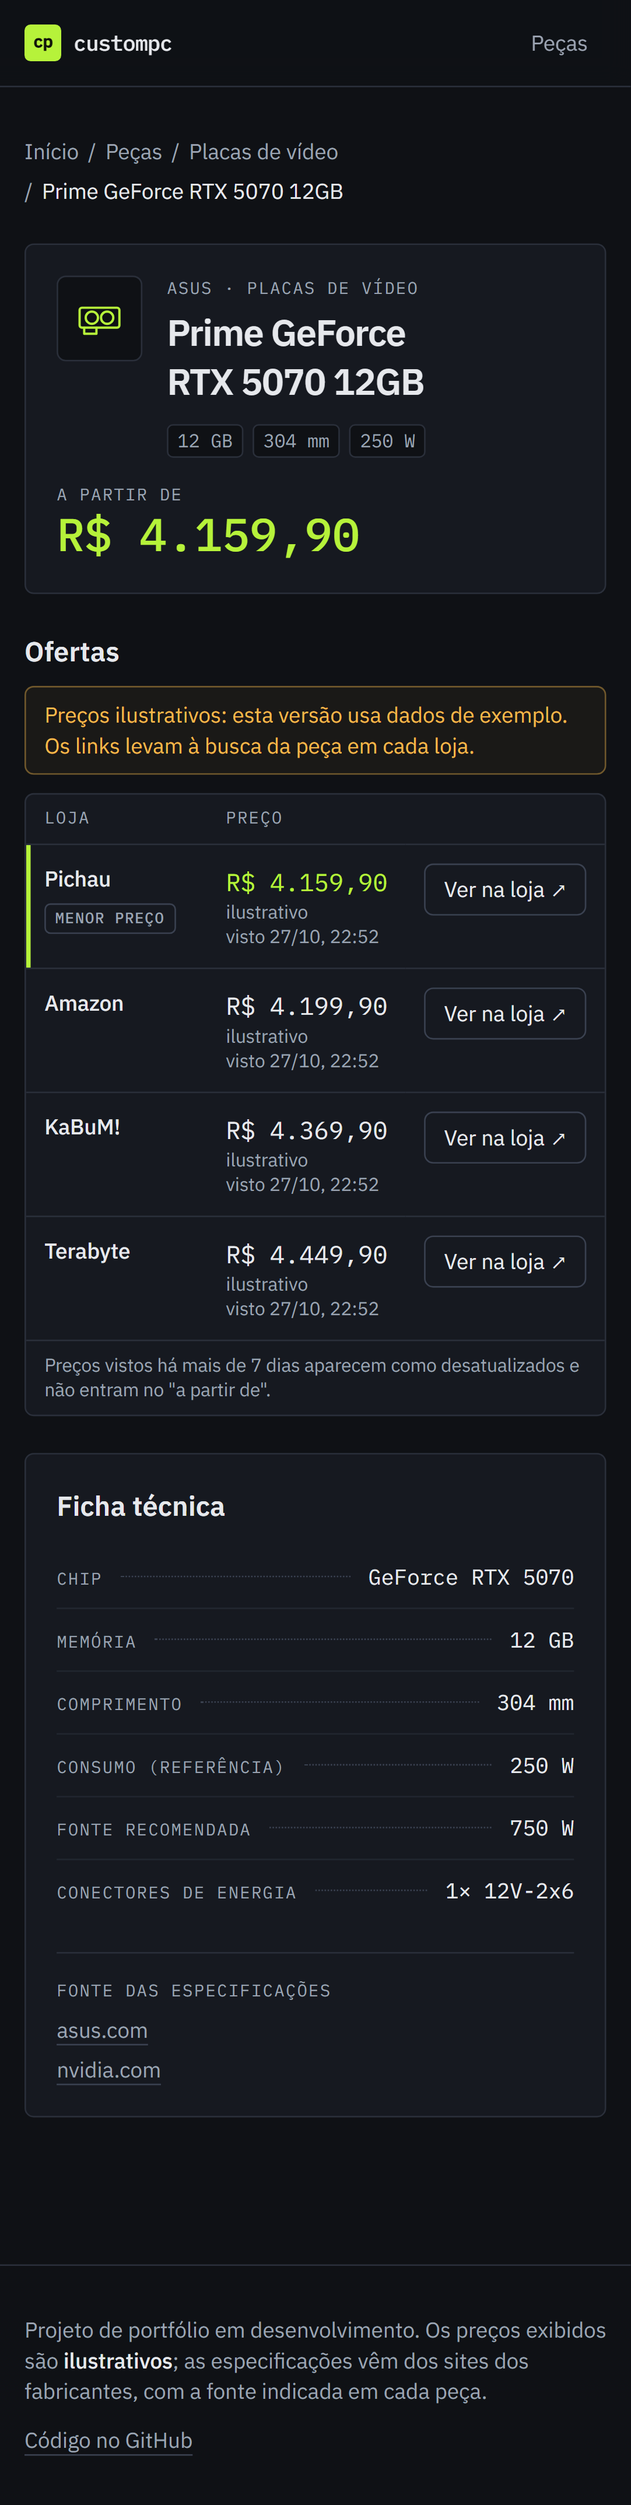
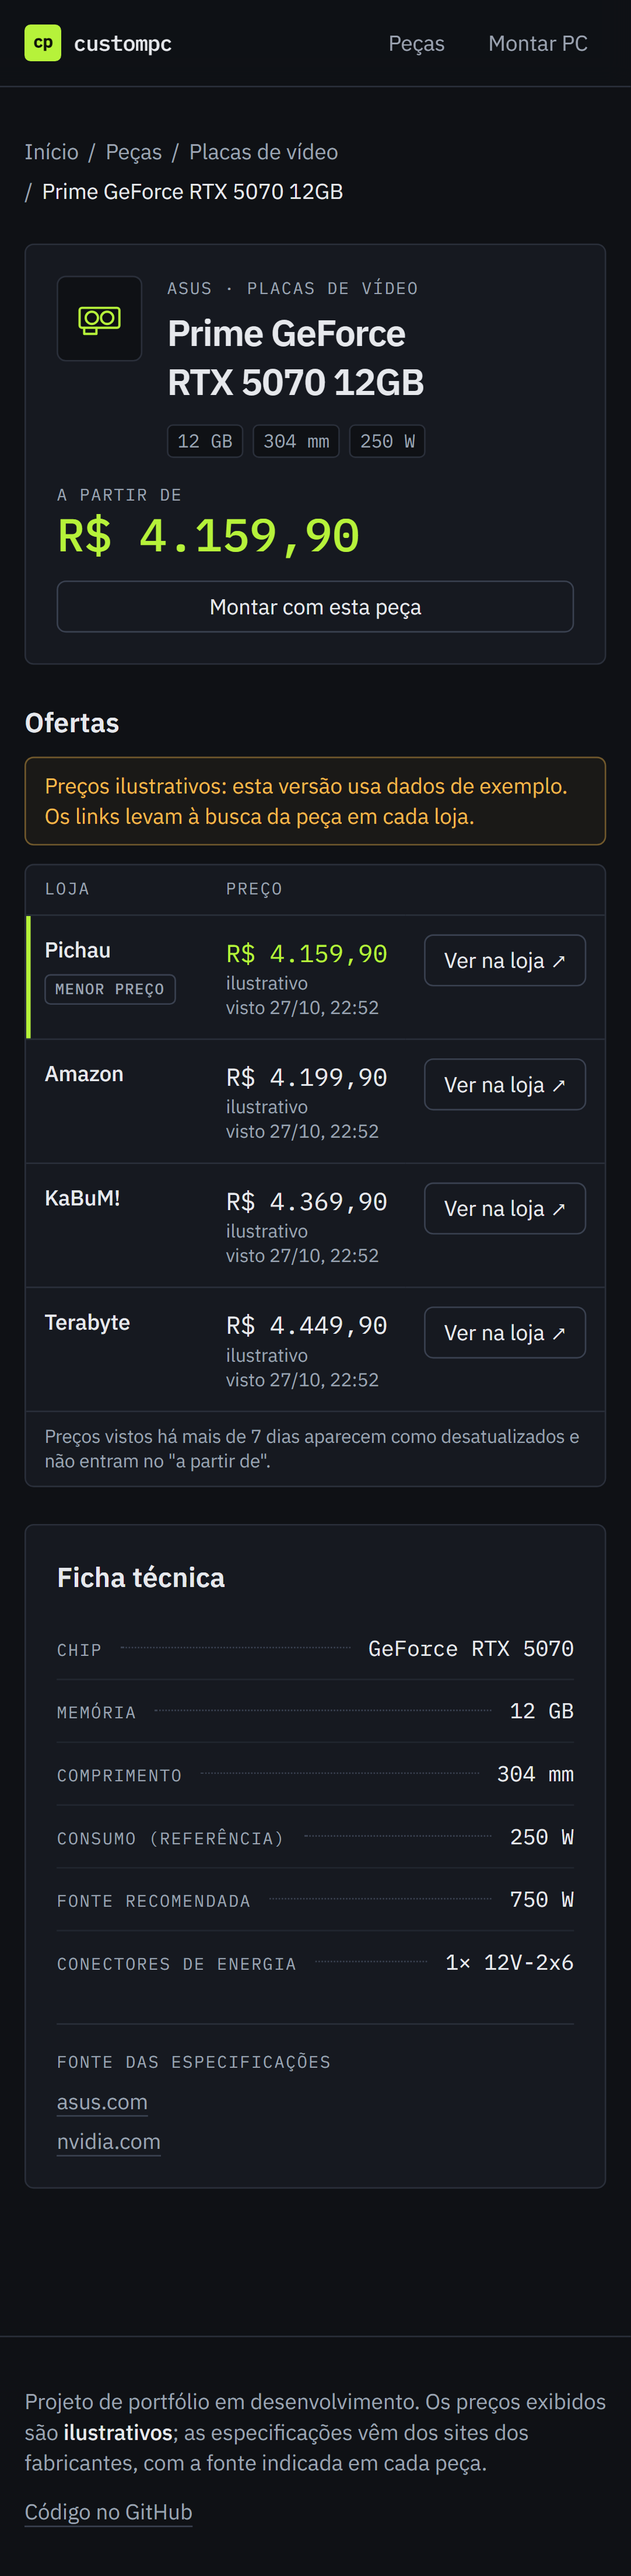
docs: describe the builder and refresh the screenshots
Adds builder screenshots and a status section to the README, and to
docs/architecture.md the URL format, how the builder reuses the domain
rules, and why the part page keeps a noindexed 200 for unknown slugs
(a blocking version was tried: the layout shell still fixes the status).

diff --git a/README.md b/README.md
@@ -11,10 +11,11 @@ Monte seu PC com **preços em reais**, links para **lojas brasileiras** e
 
 ## Telas
 
-| Desktop                                                                                          | Celular                                                          |
-| ------------------------------------------------------------------------------------------------ | ---------------------------------------------------------------- |
-| ![Catálogo de processadores com filtros e preços em reais](docs/screenshots/listing-desktop.png) | ![Catálogo no celular](docs/screenshots/listing-mobile.png)      |
-| ![Página da peça com ofertas por loja e ficha técnica](docs/screenshots/detail-desktop.png)      | ![Página da peça no celular](docs/screenshots/detail-mobile.png) |
+| Desktop                                                                                                  | Celular                                                                       |
+| -------------------------------------------------------------------------------------------------------- | ----------------------------------------------------------------------------- |
+| ![Montador com uma build, compatibilidade, preço total e por loja](docs/screenshots/builder-desktop.png) | ![Montador no celular com o resumo fixo](docs/screenshots/builder-mobile.png) |
+| ![Catálogo de processadores com filtros e preços em reais](docs/screenshots/listing-desktop.png)         | ![Catálogo no celular](docs/screenshots/listing-mobile.png)                   |
+| ![Página da peça com ofertas por loja e ficha técnica](docs/screenshots/detail-desktop.png)              | ![Página da peça no celular](docs/screenshots/detail-mobile.png)              |
 
 ![Página inicial com um exemplo real de verificação de compatibilidade](docs/screenshots/home-desktop.png)
 
@@ -74,6 +75,15 @@ volume `custompc-db`).
 | `npm run db:reset`    | Recria o banco e roda o seed                           |
 | `npm run prices:sync` | Atualiza as ofertas a partir dos provedores de preço   |
 
+## Status
+
+- ✅ Catálogo com filtros na URL, página de cada peça com ofertas e ficha técnica.
+- ✅ Montador em `/montar`: compatibilidade ao vivo, total em R$, total por
+  loja, consumo e fonte recomendada, link compartilhável.
+- ✅ 20 regras de compatibilidade com testes; 43 peças reais com specs dos
+  fabricantes; preços de exemplo.
+- ⏳ Próximo: E2E completos no CI, README final, deploy (Vercel + Neon).
+
 ## Arquitetura
 
 - **Domínio puro** (`src/domain`): schemas das peças, regras de
@@ -83,6 +93,9 @@ volume `custompc-db`).
   este repositório público e um pacote privado com os coletores reais e os IDs
   de afiliado. Os provedores rodam só no `npm run prices:sync`, nunca durante a
   requisição do usuário; as páginas leem as ofertas do banco.
+- **Montador** (`src/builder` + `/montar`): a build inteira fica na URL
+  (`?cpu=…&ram=…*2`); o servidor renderiza o link já montado e, no navegador,
+  cada mudança roda o mesmo `checkBuild` do domínio.
 - Ofertas com mais de 7 dias aparecem como desatualizadas; com mais de 30, somem.
 
 Detalhes, diagrama e como escrever um provedor privado:
@@ -114,9 +127,16 @@ stores** and **compatibility checks** between parts.
 
 ### Screenshots
 
-See the table above: the catalog with filters and prices in reais, a part
-page with store offers and its spec sheet, and the home page with a real
+See the table above: the builder with live compatibility checks, total and
+per-store prices; the catalog with filters and prices in reais; a part page
+with store offers and its spec sheet; and the home page with a real
 compatibility check on seed parts.
+
+### Status
+
+Catalog, part pages and the builder at `/montar` work end to end on example
+prices: live compatibility, total and per-store totals, power estimate and a
+shareable link. Next: full E2E in CI, final README and deploy.
 
 ### Why Brazil
 

diff --git a/docs/architecture.md b/docs/architecture.md
@@ -11,6 +11,8 @@ src/pricing/   the PriceProvider contract, the provider registry and the
                port (enforced by ESLint).
 src/seed/      the example catalog: real parts, stores, illustrative offers,
                demo scenarios.
+src/builder/   pure builder logic: URL encode/decode, slug resolution,
+               pricing, candidate checks.
 src/catalog/   pure presentation logic for the catalog: category routes, pt-BR
                spec formatting, facets, sorting, pagination, offer summaries.
 src/server/    server-side adapters: the Prisma client and the Prisma-backed
@@ -174,6 +176,45 @@ Because pages stream, a `notFound()` raised while rendering arrives after the
 200 status. Unknown categories are a fixed list, so `src/proxy.ts` rejects
 them up front with a real 404. Unknown part slugs need the database and
 render the not-found page with status 200 and `noindex`.
+
+Making the part page return a real 404 was tried: look the part up at the top
+of the page (no `loading.tsx`) with only the offers behind `<Suspense>`, and
+`export const instant = false` to allow the blocking route. It builds, but the
+layout's static shell (header and footer) is still sent first, which fixes
+the status at 200. Cache Components has no per-route switch to turn that off
+(`dynamic` and `dynamicParams` were removed), and a slug check in the proxy
+would query the database on every request, so the streamed, noindexed
+not-found stays.
+
+## Builder
+
+`/montar` keeps the whole build in the URL, so a link opens it assembled:
+
+```
+/montar?cpu=amd-ryzen-5-7600&placa=asus-tuf-gaming-b650m-plus-wifi
+       &ram=kingston-fury-beast-ddr5-6000-cl30-2x16gb*2&disco=kingston-nv3-1tb
+```
+
+One parameter per category (`cpu`, `placa`, `ram`, `gpu`, `disco`, `fonte`,
+`gabinete`, `cooler`); `ram` and `disco` can repeat and take a quantity after
+`*`, a character slugs never contain (unlike `x`, as in `2x16gb`). Writing
+follows a fixed order, so a build always has one link. `src/builder/url.ts`
+encodes and decodes it; malformed values, bad quantities and repeated
+single-part parameters are dropped and reported, and `resolve.ts` drops
+slugs missing from the catalog. The page shows a short notice and rewrites
+the address without them.
+
+The server renders the builder from the URL (title and Open Graph summarize
+CPU + GPU, part count, total and errors). In the browser, every change runs
+the same `checkBuild` from `src/domain`, so there is one set of rules, and
+replaces the URL in place. The part picker uses `candidateBlockers`: the
+errors a candidate would cause involving its own category, which is both the
+"compatible only" filter and the reason shown next to incompatible parts.
+
+Prices: the total takes each part's cheapest fresh offer in stock
+(`src/builder/pricing.ts`); "all at one store" totals rank stores by how many
+parts they lack, then by price, since one order usually means one shipping
+fee.
 
 ## Data model
 
